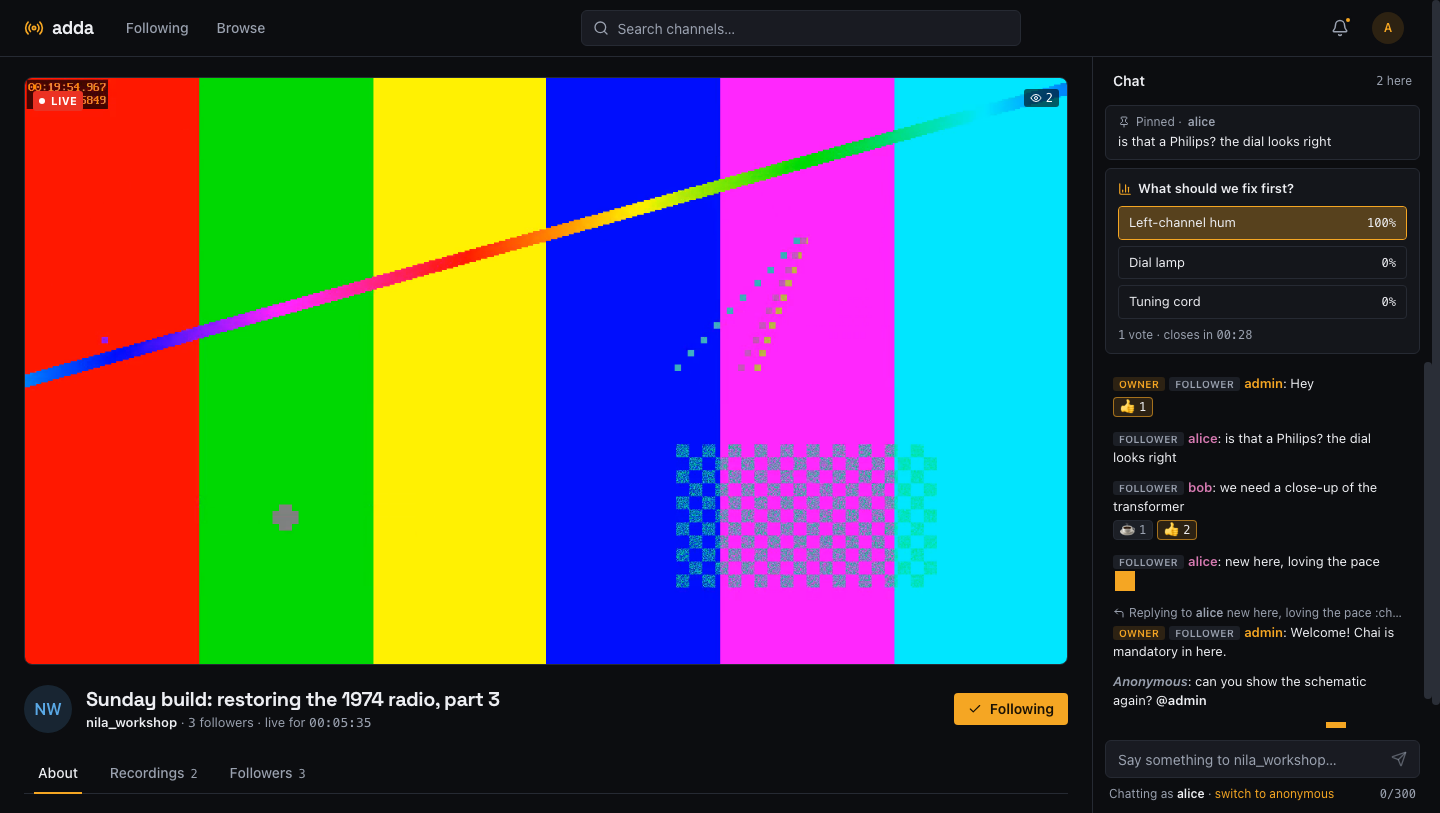
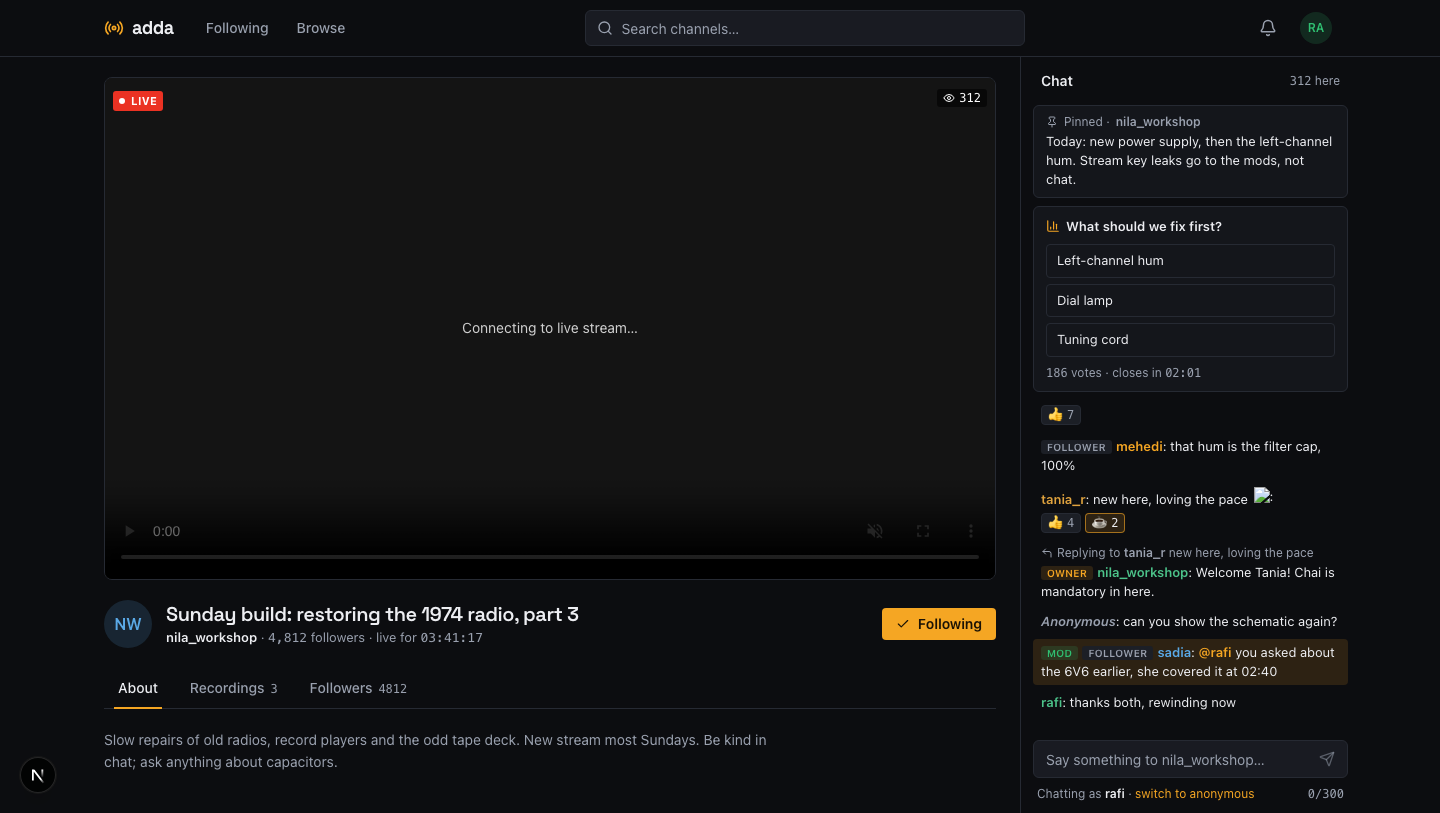
feat(web): one centred 1280px page width and refreshed site screenshots

diff --git a/web/src/components/top-bar.tsx b/web/src/components/top-bar.tsx
@@ -5,6 +5,7 @@ import { usePathname, useSearchParams } from "next/navigation";
 import { Radio, Search } from "lucide-react";
 import { Button } from "@/components/ui/button";
 import { NotificationBell } from "@/components/notification-bell";
+import { PageContainer } from "@/components/page-container";
 import { SearchBox } from "@/components/search-box";
 import { UserMenu } from "@/components/user-menu";
 import { useMe } from "@/lib/session";
@@ -25,7 +26,7 @@ export function TopBar() {
 
   return (
     <header className="sticky top-0 z-40 border-b border-border bg-background">
-      <div className="flex h-14 items-center gap-5 px-4 sm:px-6">
+      <PageContainer className="flex h-14 items-center gap-5 px-4 sm:px-6">
         <Link href="/" className="flex items-center gap-2" aria-label="adda home">
           <Radio className="h-5 w-5 text-primary" aria-hidden="true" />
           <span className="font-display text-lg font-bold tracking-tight text-foreground">
@@ -82,7 +83,7 @@ export function TopBar() {
             </>
           )}
         </div>
-      </div>
+      </PageContainer>
     </header>
   );
 }

diff --git a/web/src/components/app-shell.tsx b/web/src/components/app-shell.tsx
@@ -7,6 +7,7 @@ import { UserCircle } from "lucide-react";
 import { Button } from "@/components/ui/button";
 import { useMe } from "@/lib/session";
 import { SiteFooter } from "@/components/site-footer";
+import { PageContainer } from "@/components/page-container";
 import { TopBar } from "@/components/top-bar";
 
 const AUTH_PREFIXES = ["/login", "/register", "/reset-password", "/forgot-password"];
@@ -19,7 +20,9 @@ export function AppShell({ children }: { children: React.ReactNode }) {
   return (
     <div className="flex min-h-screen flex-col">
       <TopBar />
-      <div className="flex-1">{children}</div>
+      <div className="flex-1">
+        <PageContainer>{children}</PageContainer>
+      </div>
       <SiteFooter />
     </div>
   );

diff --git a/web/src/components/site-footer.tsx b/web/src/components/site-footer.tsx
@@ -1,7 +1,9 @@
+import { PageContainer } from "@/components/page-container";
+
 export function SiteFooter() {
   return (
     <footer className="border-t border-border">
-      <div className="flex flex-wrap items-center justify-between gap-3 px-4 py-5 sm:px-6">
+      <PageContainer className="flex flex-wrap items-center justify-between gap-3 px-4 py-5 sm:px-6">
         <p className="text-xs text-muted-foreground">
           adda — <span lang="bn">আড্ডা</span> · live, together, on your own terms
         </p>
@@ -19,7 +21,7 @@ export function SiteFooter() {
             GitHub
           </a>
         </nav>
-      </div>
+      </PageContainer>
     </footer>
   );
 }

diff --git a/web/src/components/channel/recording-watch.tsx b/web/src/components/channel/recording-watch.tsx
@@ -41,7 +41,7 @@ export function RecordingWatch({ community, path }: { community: Community; path
   const others = (recs ?? []).filter((r) => r.path !== path).slice(0, 6);
 
   return (
-    <div className="mx-auto grid max-w-[1400px] gap-6 px-4 py-5 sm:px-6 lg:grid-cols-[minmax(0,1fr)_340px]">
+    <div className="grid gap-6 px-4 py-5 sm:px-6 lg:grid-cols-[minmax(0,1fr)_340px]">
       <div className="min-w-0 space-y-5">
         <div className="overflow-hidden rounded-lg border border-border bg-black">
           <video

diff --git a/web/src/components/search-results.tsx b/web/src/components/search-results.tsx
@@ -30,7 +30,7 @@ export function SearchResults({ initial, q }: { initial: DiscoverChannel[]; q: s
   const filters: Filter[] = user ? ["all", "live", "following"] : ["all", "live"];
 
   return (
-    <div className="px-4 py-6 sm:px-8">
+    <div className="px-4 py-6 sm:px-6">
       <div className="flex flex-wrap items-end justify-between gap-4">
         <div>
           <p className="text-[11px] font-semibold uppercase tracking-[0.08em] text-muted-foreground">

diff --git a/web/src/components/studio/studio-frame.tsx b/web/src/components/studio/studio-frame.tsx
@@ -25,7 +25,7 @@ function Frame({ children, current }: { children: ReactNode; current?: string })
   if (!channel) return <NoChannel />;
 
   return (
-    <div className="mx-auto max-w-[1192px] px-4 py-7 sm:px-6">
+    <div className="px-4 py-7 sm:px-6">
       <div className="flex flex-wrap items-start justify-between gap-4">
         <div>
           <p className="text-[11px] font-semibold uppercase tracking-[0.08em] text-muted-foreground">

diff --git a/web/src/components/channel/profile-view.tsx b/web/src/components/channel/profile-view.tsx
@@ -24,7 +24,7 @@ export function ProfileView({ community }: { community: Community }) {
         )}
       </div>
 
-      <div className="mx-auto max-w-[1100px] px-4 sm:px-6">
+      <div className="px-4 sm:px-6">
         <div className="-mt-8 flex flex-wrap items-end gap-4">
           <UserAvatar
             name={community.name}

diff --git a/web/src/components/page-container.tsx b/web/src/components/page-container.tsx
@@ -1,0 +1,6 @@
+import { cn } from "@/lib/cn";
+
+/** The one content width: centred, capped at 1280px, so wide screens get even margins. */
+export function PageContainer({ className, ...props }: React.ComponentPropsWithoutRef<"div">) {
+  return <div className={cn("mx-auto w-full max-w-[1280px]", className)} {...props} />;
+}

diff --git a/docs/DESIGN.md b/docs/DESIGN.md
@@ -204,6 +204,15 @@ Rules:
 4px base grid: 8 / 12 / 16 / 24 (component → section). Page gutters: 24px on
 desktop widths, 16px on mobile.
 
+### Page width
+
+One content width: `PageContainer` (`web/src/components/page-container.tsx`)
+centres everything, the top bar and footer content included, in a column capped
+at 1280px. Wider screens get even side margins; nothing runs edge to edge.
+Pages fill the column (the player pages use it for video plus the 340px chat
+rail). Only forms and prose pages (settings, 404, auth) go narrower inside it.
+Do not add per-page `max-w-` wrappers wider than the column.
+
 ### Fixed chrome
 
 | Element         | Size                                          |
